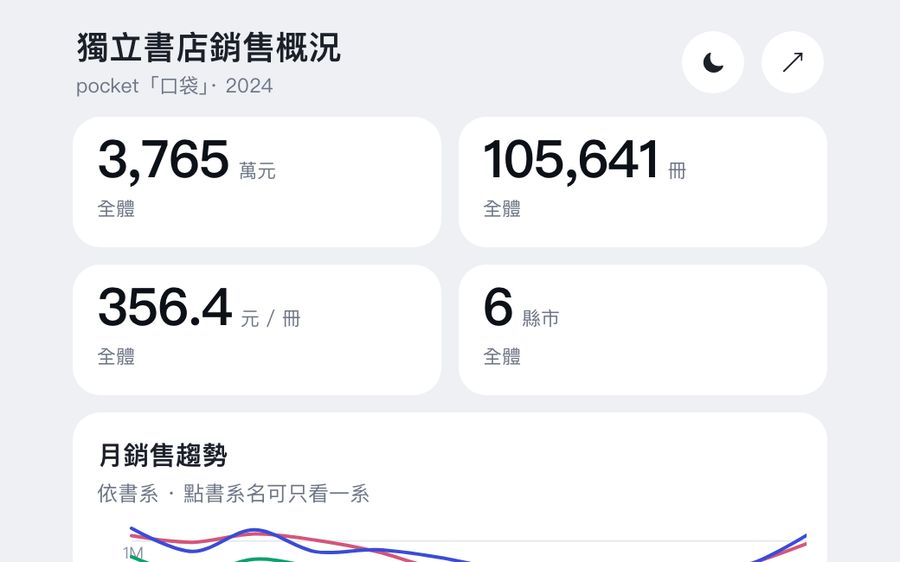
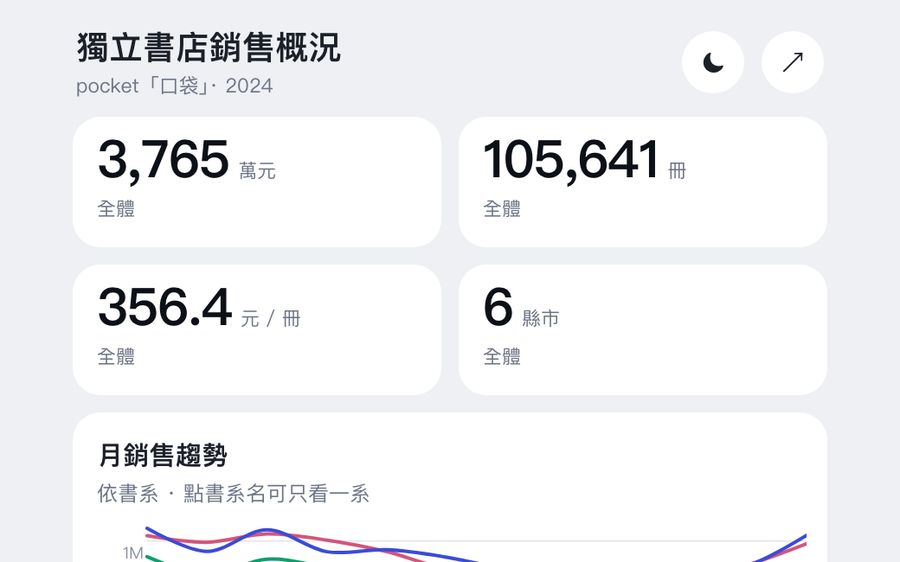
chart: @makechart/number 升到 0.0.3, vanilla 的縮圖改回從頭拍
0.0.3 修掉三件事 ( 我們回報的 ): 補間改成按時間而不是按 frame、停止條件
從浮點等號改成 epsilon ( 原本 run === number 永遠不成立, 四張 number
就是四條永遠在跑的 rAF, 實測每秒 240 次 )、以及認 prefers-reduced-motion.

所以 vanilla 不必再避開 KPI 那一列了. 裁切從 (0, 0.26, 0.60) 改成
(0, 0, 0.80) - 拉遠一點是因為它現在多了一列篩選列, 原本的寬度只看得到
兩三格.

截圖驗過 ( --force-prefers-reduced-motion ): 3765 / 105641 / 356 都是
最終值. npm 上的 index.html 跟先前在本機測過的 dist 逐位元相同.

Changed region(s): [[0.1244, 0.9377, 0.56, 1.0], [0.8089, 0.968, 0.8711, 1.0]]

diff --git a/tool/shot-crop.py b/tool/shot-crop.py
@@ -9,11 +9,14 @@
 import sys, os
 from PIL import Image
 
-# vanilla 從 KPI 那一列底下開始裁: 它的 KPI 是 @makechart/number, 數字會從 0
-# 跑上來, 而 headless 只畫得出兩三格 frame, 截到的會是一個跑到一半的數字.
-# ( 真的瀏覽器裡 0.5 秒就跑完, 所以這只是截圖的問題 ) 底下那四張圖一樣講得完它的風格
+# 每一版從哪裡開始裁都是各自調的: report 是版心置中的, 所以要往中間移;
+# pocket 本來就只有一種寬度, 整張拍.
+#
+# vanilla 一度從 KPI 那一列底下開始裁, 因為 @makechart/number 的數字跑動
+# 在套件裡面關不掉, headless 截到的是跑到一半的數字. 0.0.3 之後它認
+# prefers-reduced-motion 了, 所以改回從頭拍.
 BOX = {
-    'vanilla':  (0.00, 0.26, 0.60),
+    'vanilla':  (0.00, 0.00, 0.80),
     'desk':     (0.00, 0.00, 0.60),
     'report':   (0.09, 0.05, 0.60),
     'wall':     (0.00, 0.00, 0.58),

diff --git a/web/src/pug/initiative/variation/README.md b/web/src/pug/initiative/variation/README.md
@@ -113,8 +113,13 @@
    四個有數字補間的 KPI block 也會直接換數字。headless 一個頁面只畫得出兩三格 frame，
    原本截到的都是跑到一半的數字（3,736 而不是 3,765）
 
-`vanilla` 的縮圖從 KPI 那一列底下開始裁，因為它的 KPI 是 `@makechart/number`，
-數字的跑動在那個 block 裡面，這邊關不掉。
+`vanilla` 的 KPI 是 `@makechart/number`，它的數字跑動一度在這邊關不掉
+（補間寫在套件裡），所以縮圖曾經從 KPI 那一列底下開始裁。回報之後
+`@makechart/number` 0.0.3 修掉了三件事：補間改成按時間而不是按 frame
+（120Hz 的螢幕上本來會跑兩倍快）、停止條件從浮點等號改成 epsilon
+（原本 `run === number` 永遠不成立，四張 number 就是四條永遠在跑的
+`requestAnimationFrame`，實測每秒 240 次），以及新增 `tween` 設定並認
+`prefers-reduced-motion`。所以現在它跟其他六版一樣從頭拍。
 
 
 每一版各自的理由寫在自己的 `README.md`。desk 的那一份另外記了
